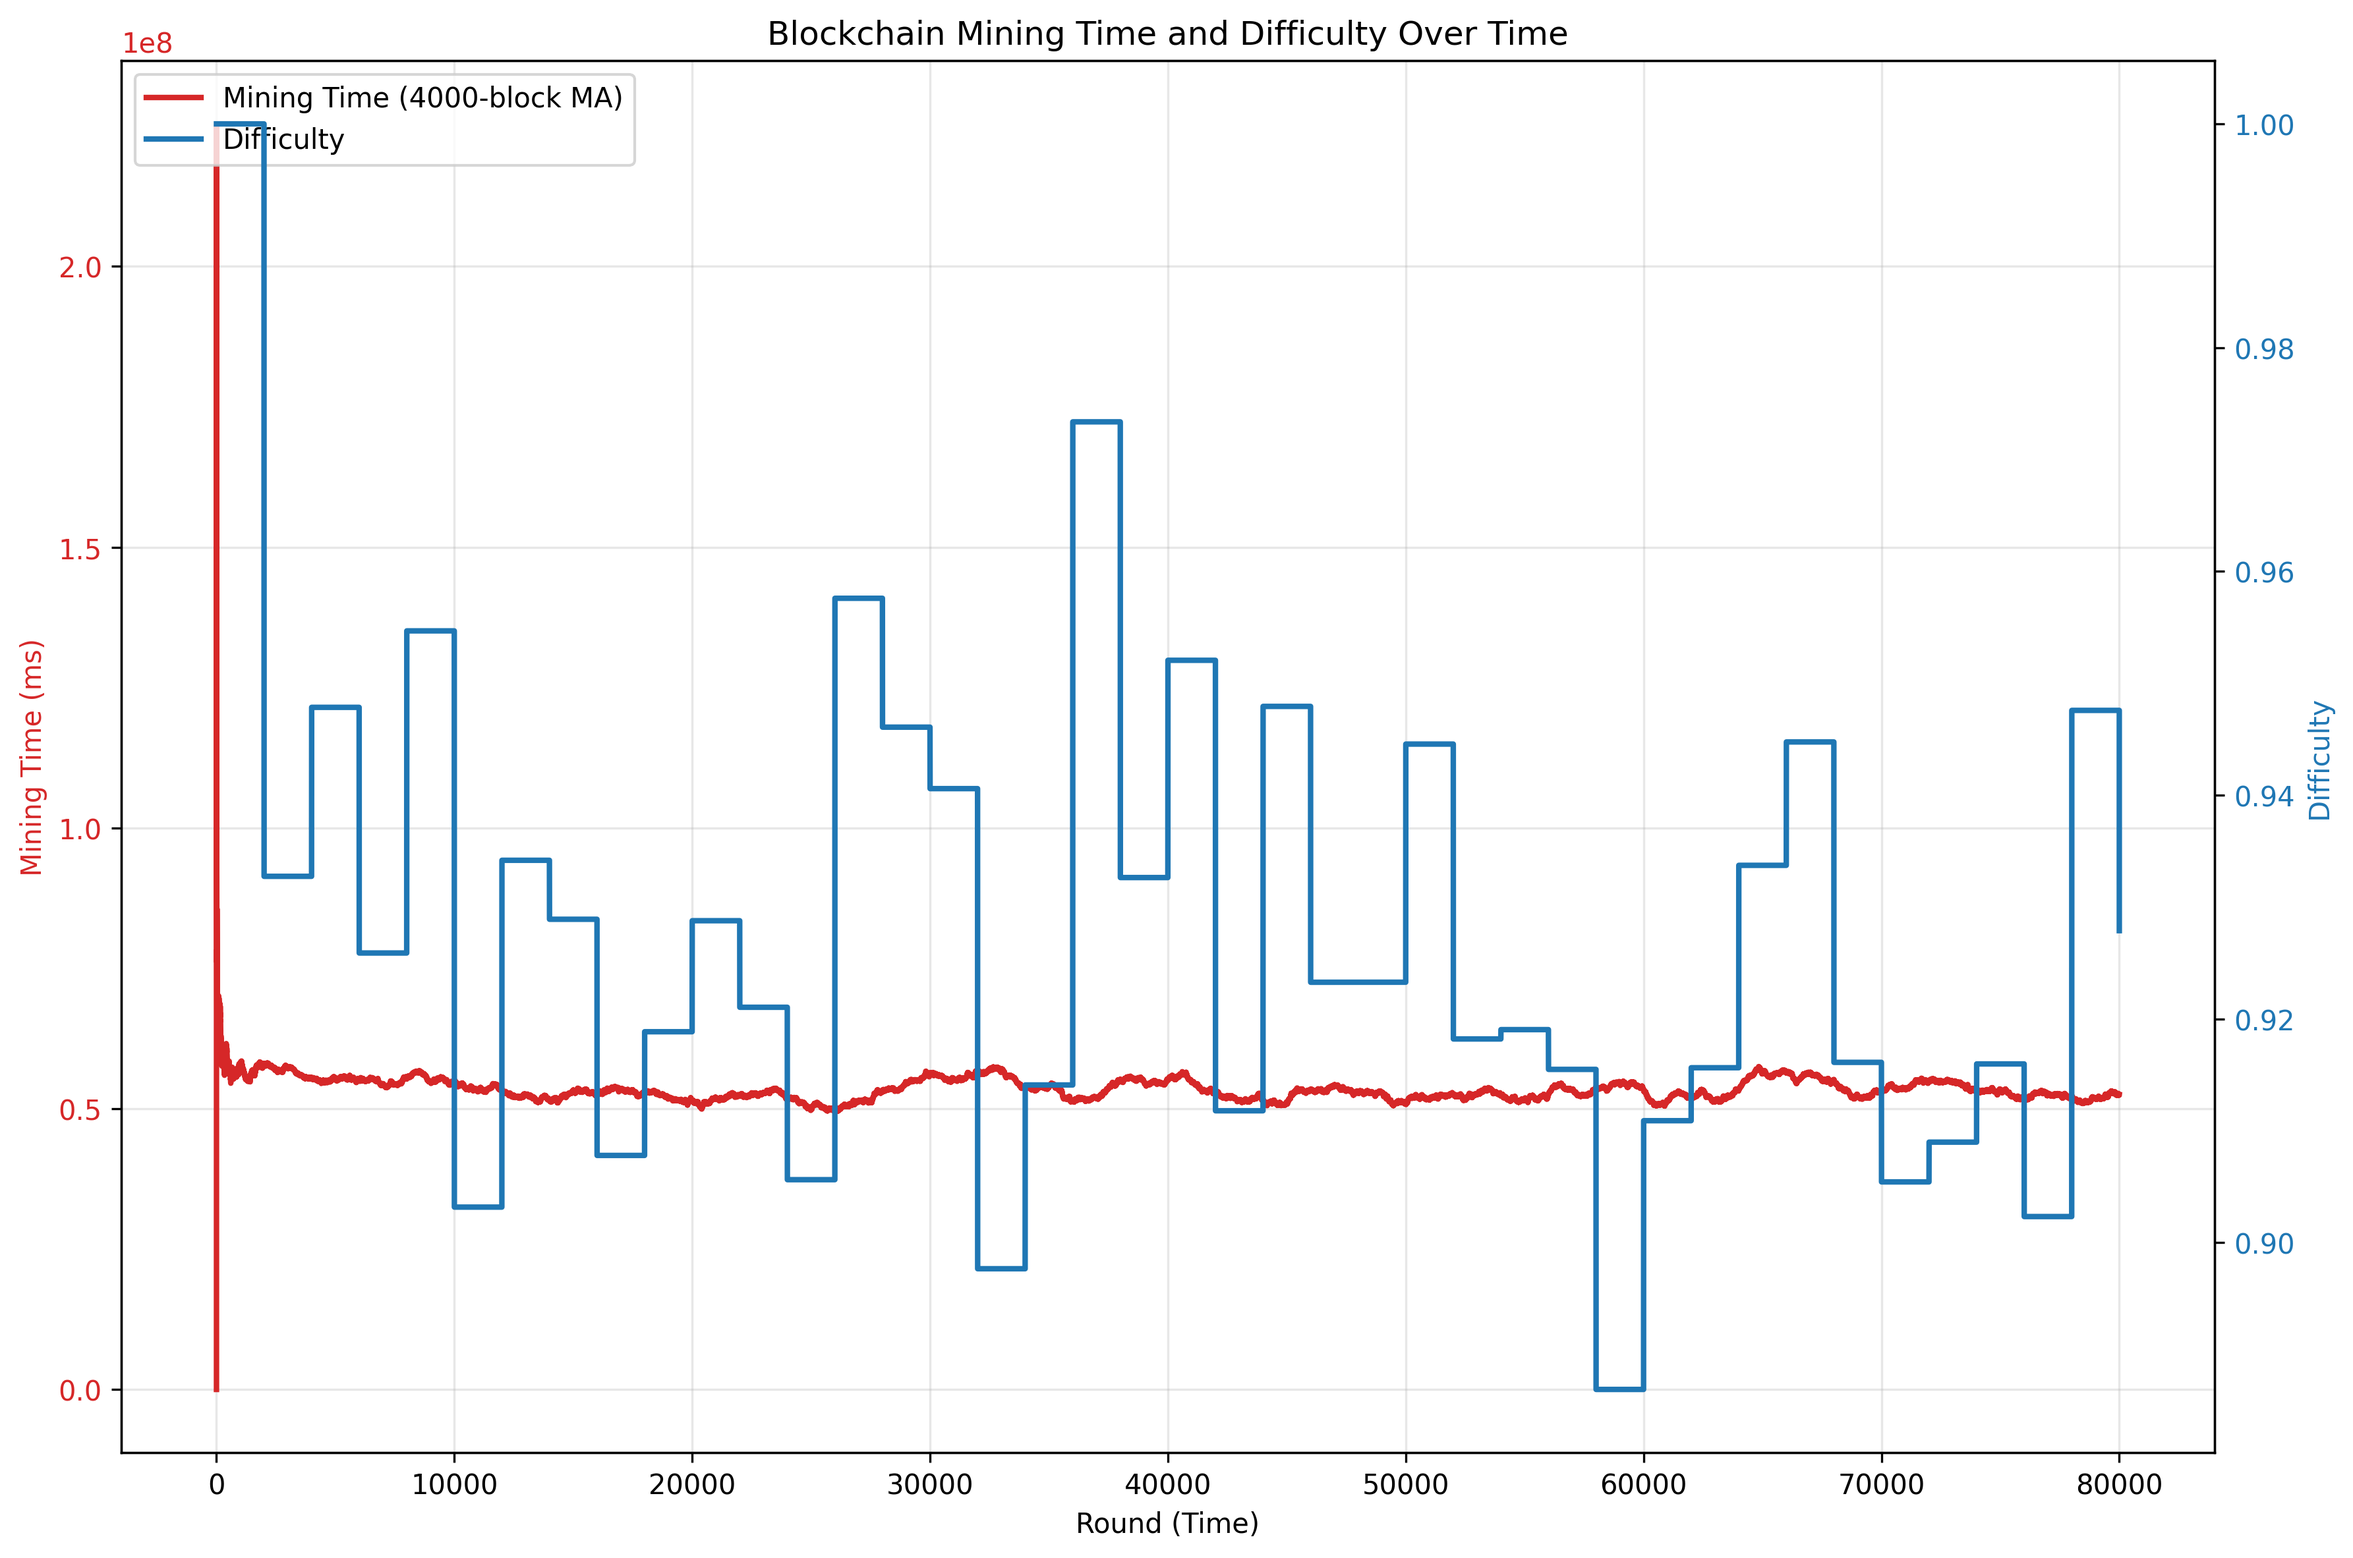
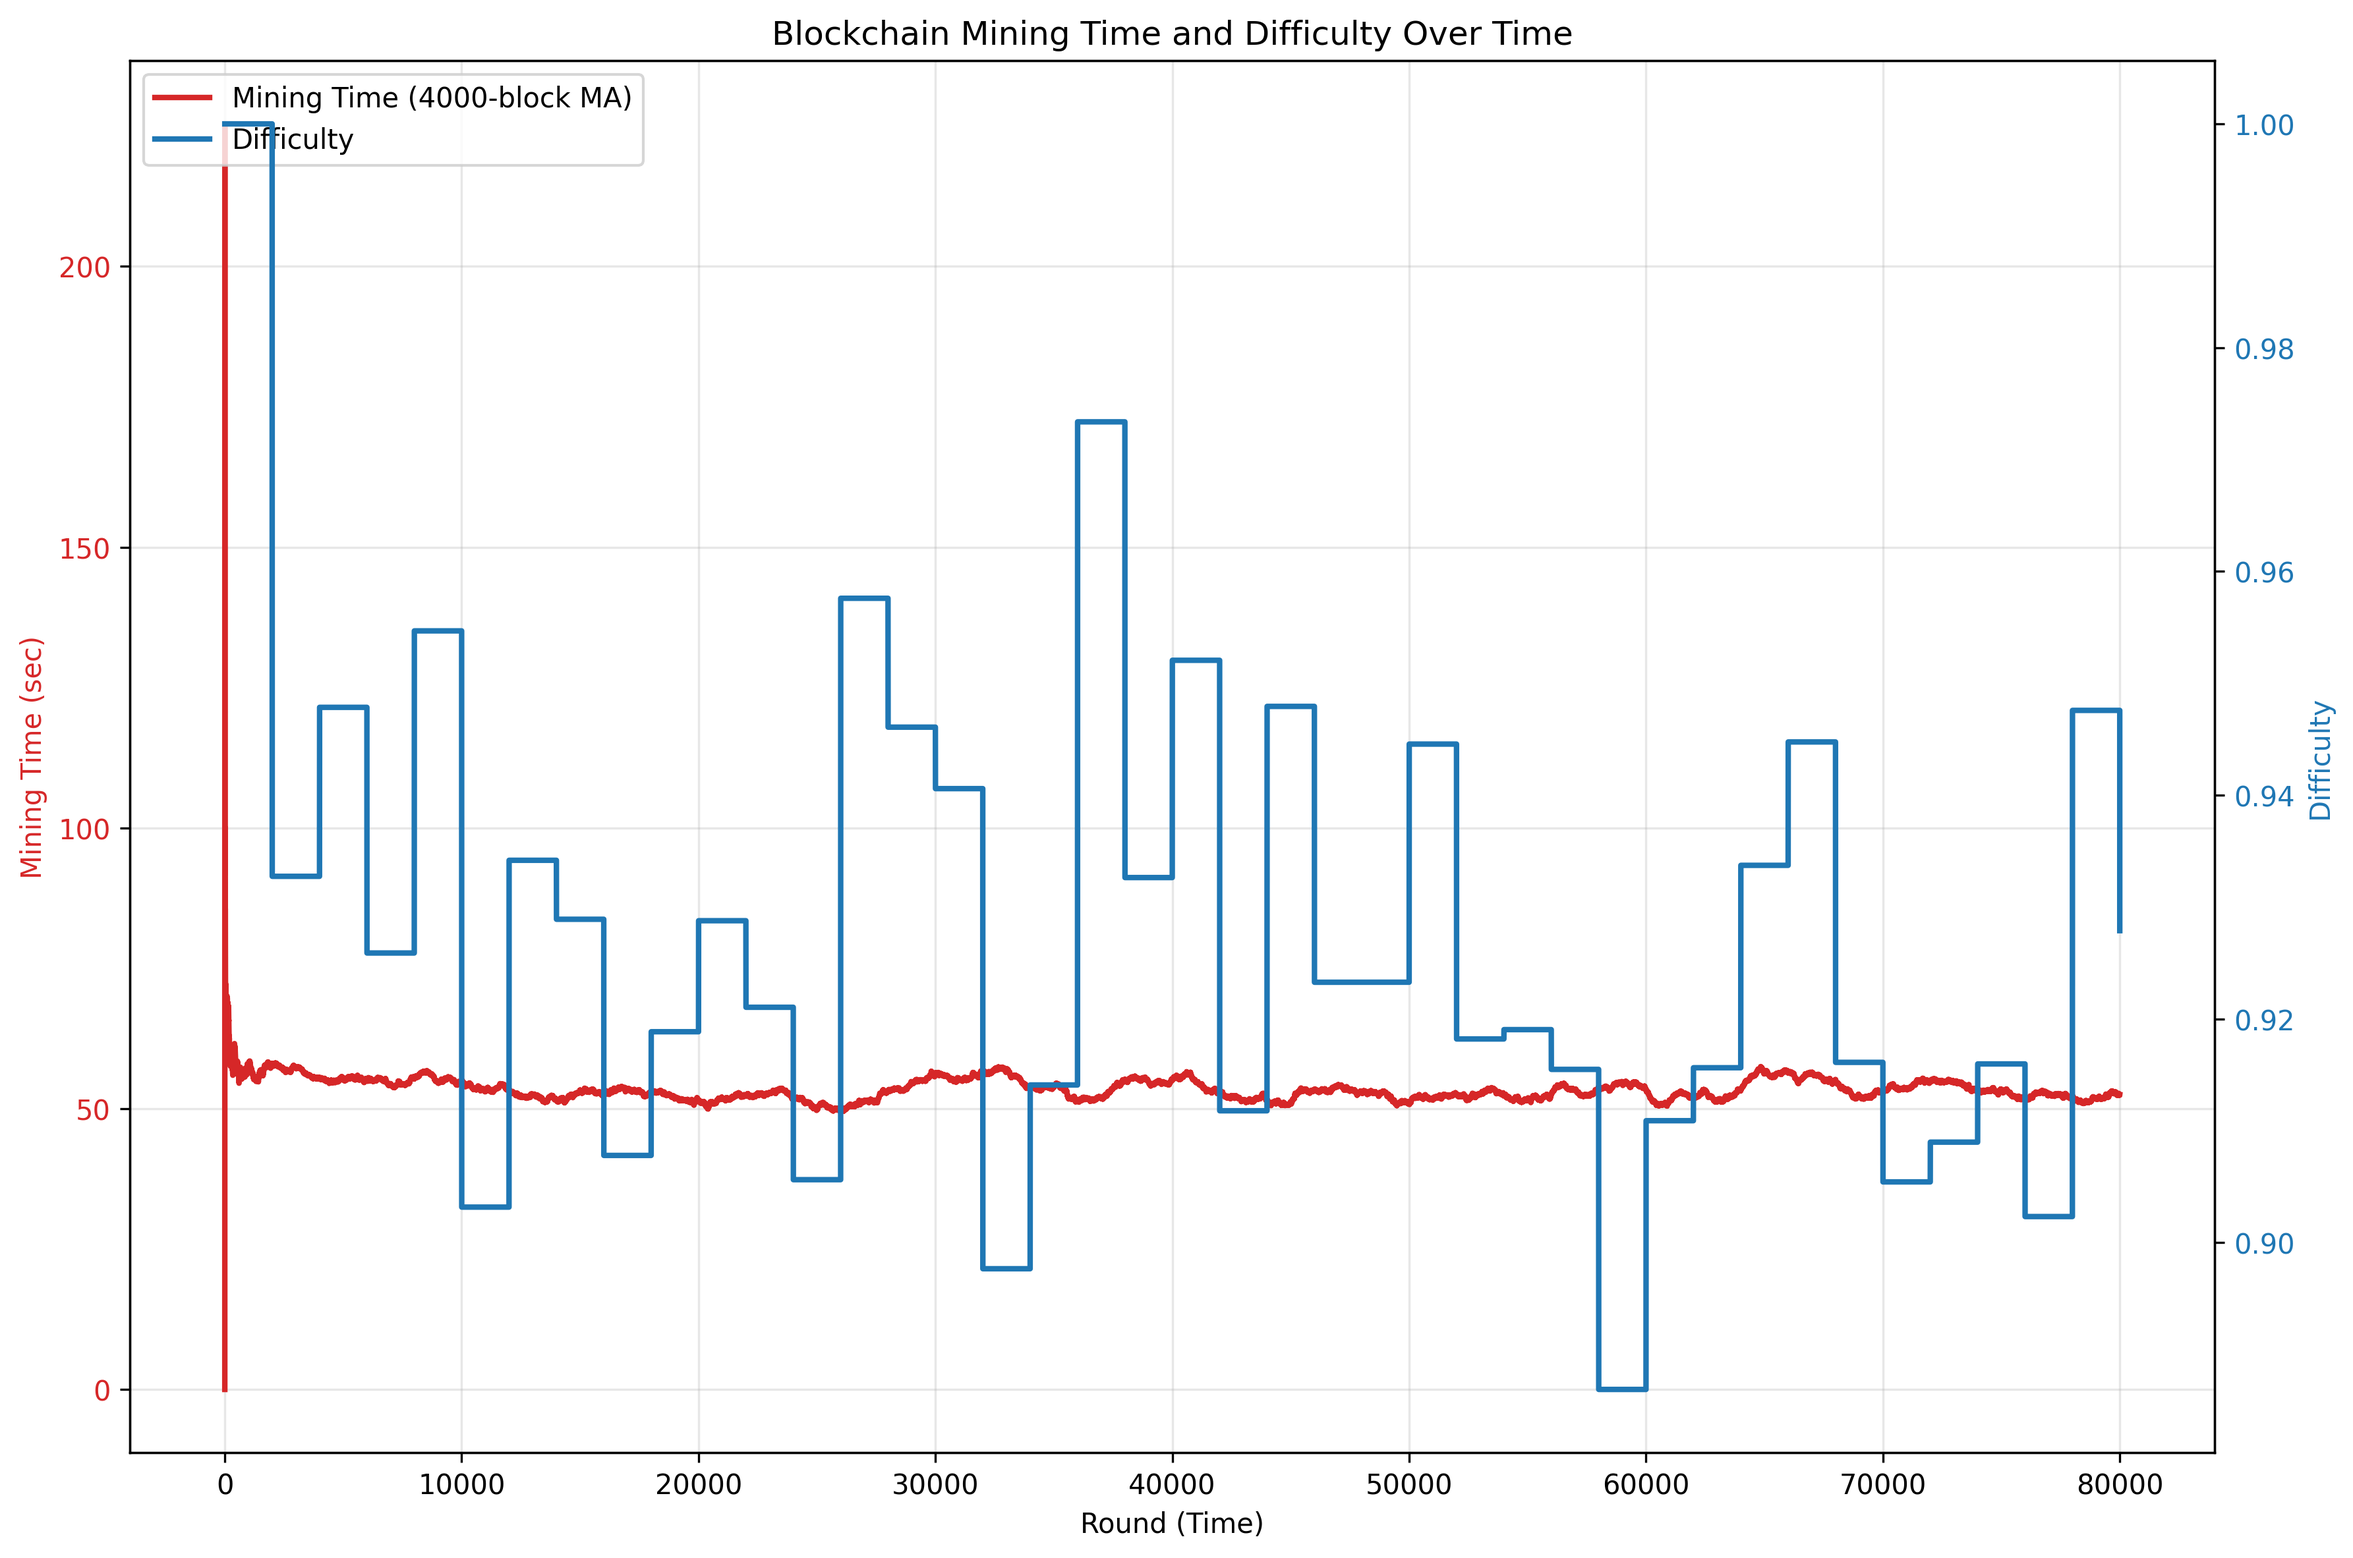
update result

diff --git a/experiment/plot-time.py b/experiment/plot-time.py
@@ -47,10 +47,13 @@ def main():
     # Sort by round
     df = df.sort_values("round")
 
-    # Calculate moving average
+    # Convert mining time from ms to seconds
+    df["mining_time_sec"] = df["mining_time"] / 1000 / 1000
+
+    # Calculate moving average in seconds
     window_size = args.window
     df["mining_time_ma"] = (
-        df["mining_time"].rolling(window=window_size, min_periods=1).mean()
+        df["mining_time_sec"].rolling(window=window_size, min_periods=1).mean()
     )
 
     # Plot setup - single plot with dual y-axes
@@ -59,7 +62,7 @@ def main():
     # Left y-axis: Mining time (moving average)
     color1 = "tab:red"
     ax1.set_xlabel("Round (Time)")
-    ax1.set_ylabel("Mining Time (ms)", color=color1)
+    ax1.set_ylabel("Mining Time (sec)", color=color1)
     line1 = ax1.plot(
         df["round"],
         df["mining_time_ma"],
@@ -69,10 +72,16 @@ def main():
     )
     ax1.tick_params(axis="y", labelcolor=color1)
 
+    # Prevent scientific notation on y-axis
+    from matplotlib.ticker import ScalarFormatter
+
+    ax1.yaxis.set_major_formatter(ScalarFormatter())
+    ax1.ticklabel_format(style="plain", axis="y")
+
     # Apply log scale if requested
     if args.log_scale:
         ax1.set_yscale("log")
-        ax1.set_ylabel("Mining Time (ms) - Log Scale", color=color1)
+        ax1.set_ylabel("Mining Time (sec) - Log Scale", color=color1)
 
     # Right y-axis: Difficulty
     ax2 = ax1.twinx()
@@ -112,8 +121,8 @@ def main():
     print(f"CSV file: {args.csv_file}")
     print(f"Total blocks: {len(df)}")
     print(f"Average difficulty: {df['difficulty'].mean():.2f}")
-    print(f"Average mining time: {df['mining_time'].mean():.2f} ms")
-    print(f"Mining time std deviation: {df['mining_time'].std():.2f} ms")
+    print(f"Average mining time: {df['mining_time_sec'].mean():.3f} sec")
+    print(f"Mining time std deviation: {df['mining_time_sec'].std():.3f} sec")
     print(f"Moving average window size: {window_size}")
 
     # Display first few rows
